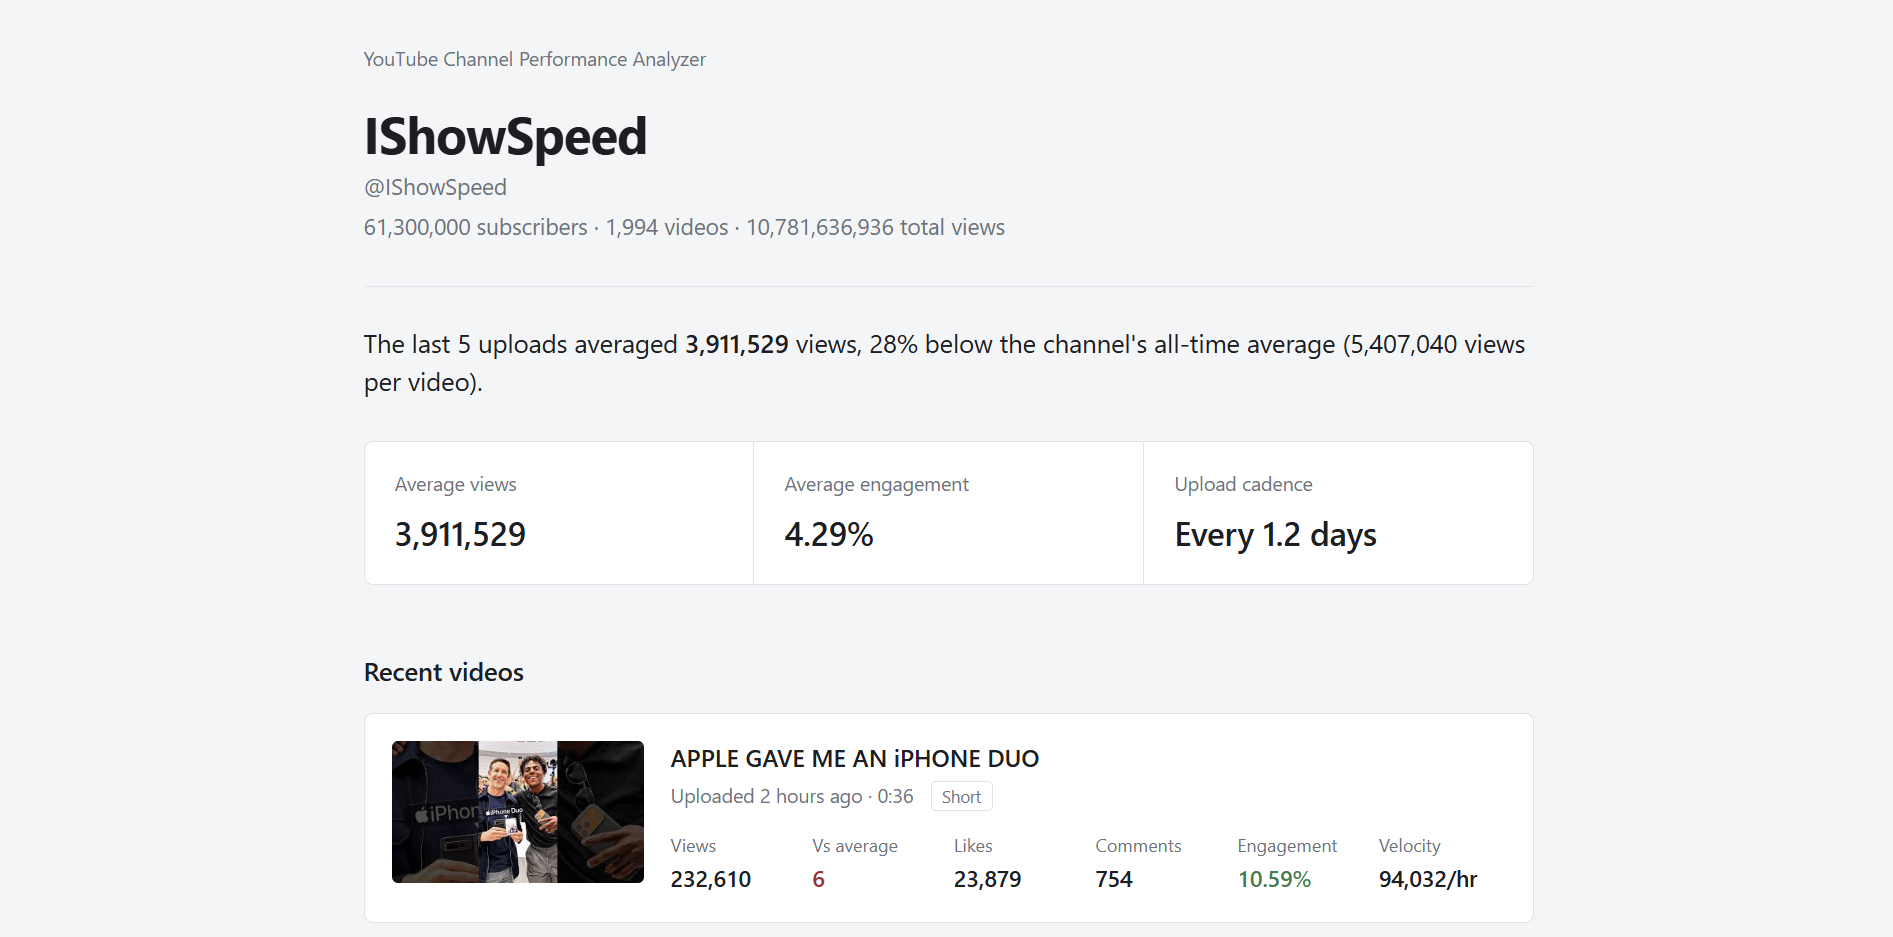
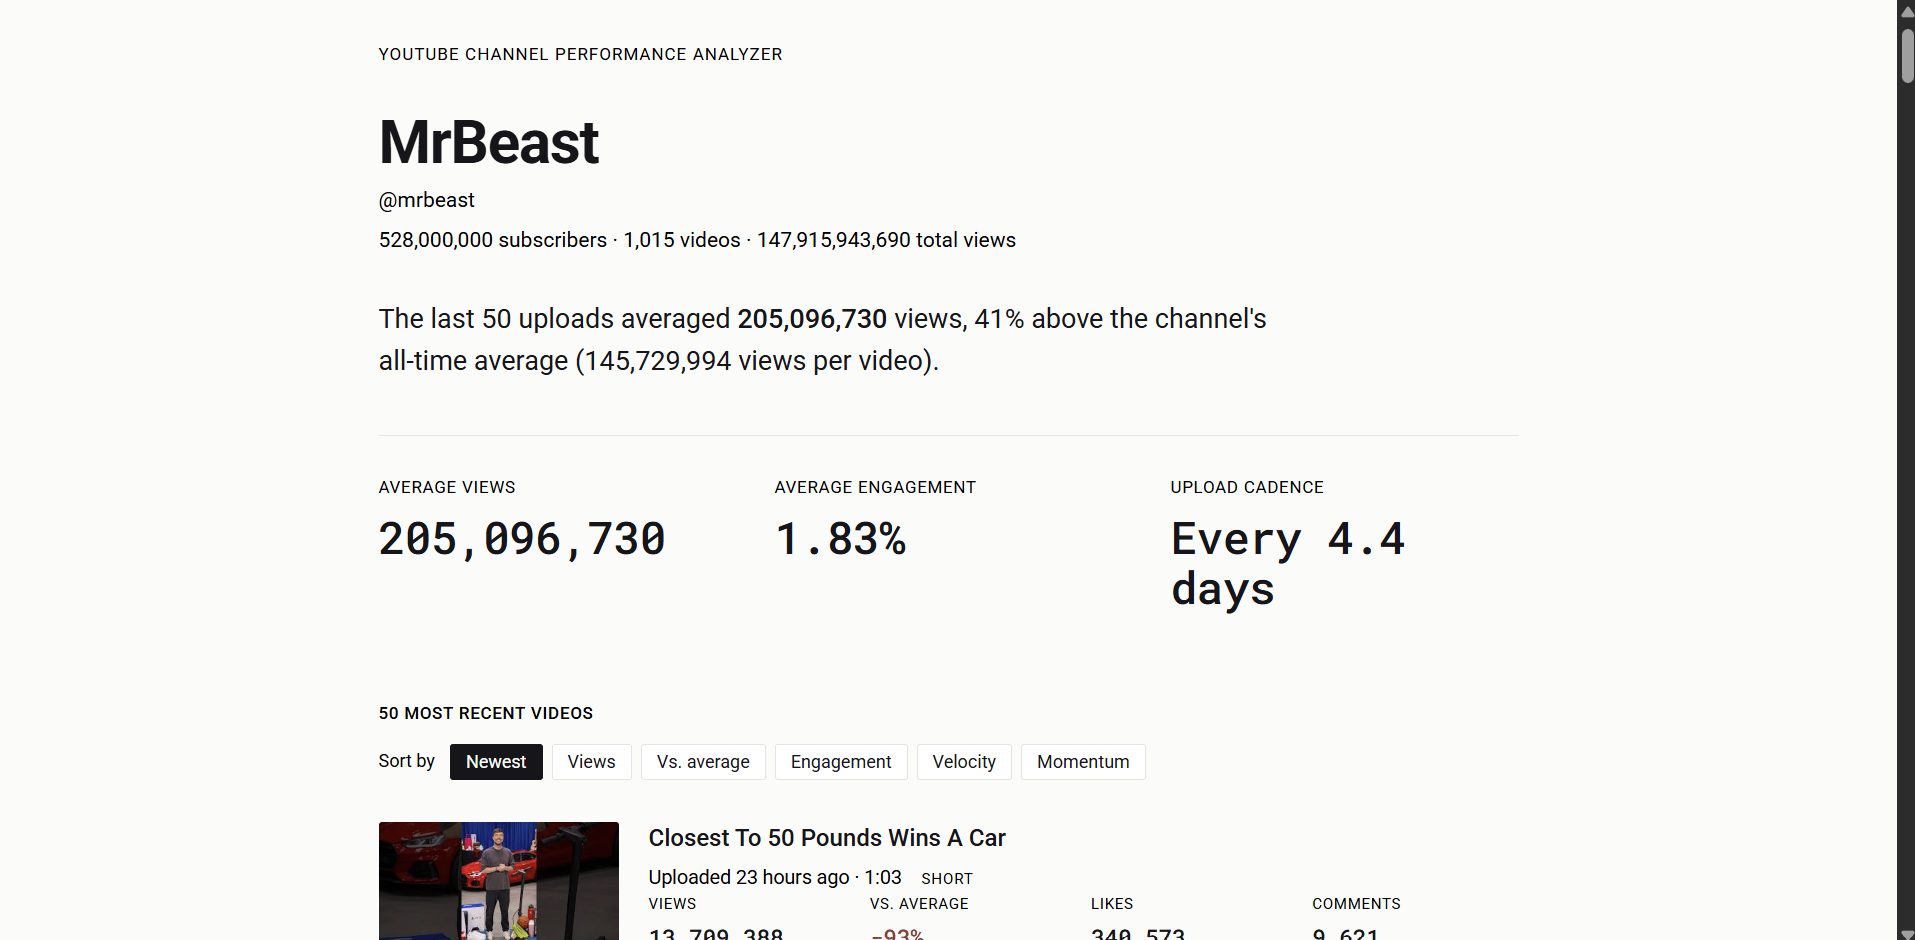
Keep a 29-day data window; stop tracking history.db; README policy section

diff --git a/main.py b/main.py
@@ -4,7 +4,7 @@ import html
 import sqlite3
 import webbrowser
 import requests
-from datetime import datetime, timezone
+from datetime import datetime, timezone, timedelta
 from dotenv import load_dotenv
 
 load_dotenv()
@@ -13,6 +13,11 @@ API_KEY = os.getenv("YOUTUBE_API_KEY")
 BASE_URL = "https://www.googleapis.com/youtube/v3"
 OUTPUT_FILE = "report.html"
 DATABASE_FILE = "history.db"
+
+# YouTube's API policies say statistics collected with an API key (no
+# channel-owner sign-in) must not be stored for more than 30 days. 29 leaves
+# one day of margin, so a late or missed daily run can't push a reading past 30.
+RETENTION_DAYS = 29
 
 # How many recent videos to pull per channel. The API charges one unit per
 # request regardless of how many items come back, so 50 costs the same as 5.
@@ -421,6 +426,42 @@ def setup_database():
     connection.commit()
     connection.close()
 
+def delete_expired_data():
+    """Delete readings older than RETENTION_DAYS. Returns how many rows went.
+
+    main() calls this before every command, so the database only ever holds
+    a rolling window of recent history: new readings come in, the oldest
+    ones expire. Rows are only ever added or deleted, never edited.
+    """
+    setup_database()
+
+    cutoff = datetime.now(timezone.utc) - timedelta(days=RETENTION_DAYS)
+
+    # recorded_at is stored as ISO text, and ISO text sorts in time order,
+    # so "older than the cutoff" is a plain < comparison between strings.
+    cutoff_text = cutoff.isoformat()
+
+    connection = sqlite3.connect(DATABASE_FILE)
+    cursor = connection.cursor()
+
+    cursor.execute("DELETE FROM snapshots WHERE recorded_at < ?", (cutoff_text,))
+    removed = cursor.rowcount
+
+    # A channel that is no longer collected keeps its row in channels (name,
+    # subscriber count). That data expires on the same schedule.
+    cursor.execute("DELETE FROM channels WHERE last_checked < ?", (cutoff_text,))
+    removed = removed + cursor.rowcount
+
+    connection.commit()
+
+    # DELETE only marks the space as free - the old bytes stay inside the
+    # file until VACUUM rebuilds it. Running it means deleted data is gone.
+    if removed > 0:
+        connection.execute("VACUUM")
+
+    connection.close()
+    return removed
+
 def get_previous_snapshot(video_id):
     """The most recent earlier reading for this video, or None if there is none.
 
@@ -533,8 +574,8 @@ def add_to_watchlist(handle):
 def remove_from_watchlist(handle):
     """Stop tracking a channel. Returns False if it wasn't there.
 
-    Past snapshots are kept, because deleting collected data to stop
-    collecting more of it would throw away the history.
+    Past snapshots are not deleted here. They stay until they expire under
+    RETENTION_DAYS, like every other reading.
     """
     setup_database()
 
@@ -1128,6 +1169,14 @@ def run_watchlist():
     print("History: " + str(count_snapshots()) + " readings in " + DATABASE_FILE)
 
 def main():
+    # Expired readings are removed first, whatever command was given, so the
+    # 29-day limit holds even if only --list or a single channel is ever run.
+    removed = delete_expired_data()
+    if removed > 0:
+        print("Removed " + plural(removed, "row") + " older than "
+              + str(RETENTION_DAYS) + " days (YouTube API data policy).")
+        print("")
+
     args = sys.argv[1:]
 
     if len(args) == 0:
@@ -1217,7 +1266,8 @@ def main():
                 print(handle + " is already being tracked.")
         else:
             if remove_from_watchlist(handle):
-                print("Stopped tracking " + handle + ". Past readings were kept.")
+                print("Stopped tracking " + handle + ". Past readings stay until they expire ("
+                      + str(RETENTION_DAYS) + " days).")
             else:
                 print(handle + " wasn't being tracked.")
         return

diff --git a/README.md b/README.md
@@ -35,12 +35,14 @@ done while exploring the data can damage the history.
 As of November 22, 2026:
 
 - **2,952 readings** of **753 videos** across **15 channels**
-- Collected since November 20, 2026, and growing daily
+- Collected daily since November 20, 2026; the database keeps the most
+  recent 29 days
 - **740 videos** have been read more than once, tracked for a median of
   57 hours
 
-The database (`history.db`) is included in the repository, so `analyze.py`
-and `charts.py` run straight after cloning — no API key needed.
+The database itself stays on the machine that collects it and is not
+published in this repository — see [Data retention and YouTube API
+policies](#data-retention-and-youtube-api-policies).
 
 ## An early finding: the overall number can point the wrong way
 
@@ -109,8 +111,9 @@ cd youtube-analyzer
 pip install -r requirements.txt
 ```
 
-At this point `python analyze.py` and `python charts.py` already work on the
-included data. The remaining steps are only needed to collect new data.
+The database is not included in the repository, so `analyze.py` and
+`charts.py` need some collected data first — follow the remaining steps,
+then run `python main.py --all`.
 
 **3. Get a YouTube Data API key**
 
@@ -207,12 +210,13 @@ endpoint returns a channel's recent videos with their statistics:
 ```
 channels    one row per channel, refreshed each run
 watchlist   which channels --all collects
-snapshots   one row per video per run — never updated or deleted
+snapshots   one row per video per run — never edited, deleted after 29 days
 ```
 
-`snapshots` is append-only, because the history is the whole value of the
-project. Removing a channel from the watchlist stops collection but keeps its
-past readings. All queries use `?` placeholders rather than building SQL from
+Rows in `snapshots` are only ever added or deleted, never edited: a reading
+records what YouTube reported at that moment, so changing it would falsify
+the history. Readings older than 29 days are deleted automatically (see
+below). All queries use `?` placeholders rather than building SQL from
 strings.
 
 **Analysis** in `analyze.py` makes a few deliberate choices:
@@ -241,7 +245,7 @@ youtube-analyzer/
 ├── analyze.py         Analysis: pandas comparison tables
 ├── charts.py          Visualization: the growth chart
 ├── style.css          Styles for the HTML report
-├── history.db         The collected data (SQLite)
+├── history.db         The collected data (SQLite) — local only, not committed
 ├── growth_chart.png   Output of charts.py
 ├── requirements.txt   Python dependencies
 ├── .env               Your API key (not committed)
@@ -258,6 +262,33 @@ failures and timeouts, invalid handles, channels with no public videos,
 missing fields in the API response, and a missing or empty database.
 
 No situation produces a stack trace.
+
+## Data retention and YouTube API policies
+
+This project collects data with an API key, without any channel owner
+signing in. YouTube's Developer Policies call that *Non-Authorized Data* and
+say statistics collected this way must not be stored for more than 30 days
+(section III.E.4.b).
+
+So the database keeps a **rolling 29-day window**:
+
+- Every time `main.py` runs, `delete_expired_data()` first deletes readings
+  (and channel rows) older than 29 days. 29 rather than 30 leaves a day of
+  margin, so a late or missed daily run can't push a reading over the limit.
+- After deleting, it runs SQLite's `VACUUM`. A plain `DELETE` only marks the
+  space as free and leaves the old bytes in the file; `VACUUM` rebuilds the
+  file so deleted data is really gone.
+- `history.db` is not committed to this repository, so the raw data is never
+  published.
+
+**Calculated metrics are under review.** Section III.E.4.h of the same
+policies restricts creating new or derived metrics from API data — its own
+example is calculating a percentage from like counts, which is what the
+engagement rate does. YouTube offers an analytics amendment that permits
+such metrics, through an application process. This is a personal learning
+project and is not deployed as a public service; which metrics are allowed,
+and whether to apply for the amendment, will be settled before any public
+version.
 
 ## Security notes
 
@@ -279,9 +310,9 @@ Worth being clear about what these numbers do and don't tell you.
 **The channels are hand-picked, not a random sample.** Findings describe
 these 15 channels, not YouTube as a whole.
 
-**The tracking window is short.** Collection started on November 20, 2026.
-Momentum figures will become more reliable as more daily readings
-accumulate.
+**History is capped at 29 days.** To follow YouTube's data policy, no
+reading is kept longer than 29 days, so long-term trends (months or years)
+can't be studied with this design.
 
 **Momentum is an average between readings.** It shows the average rate
 between two readings, not what happened hour by hour in between.
